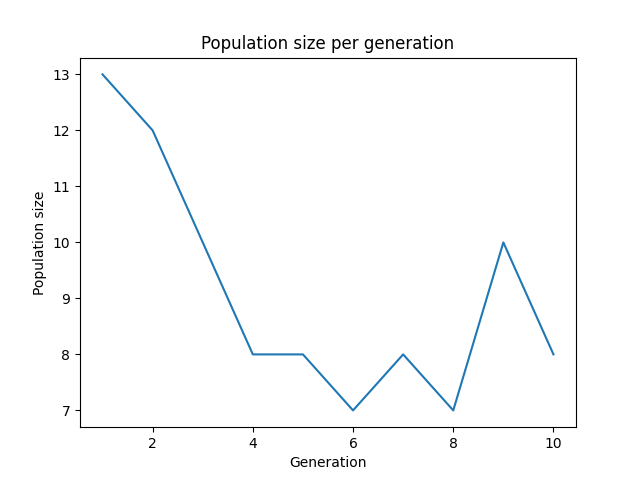
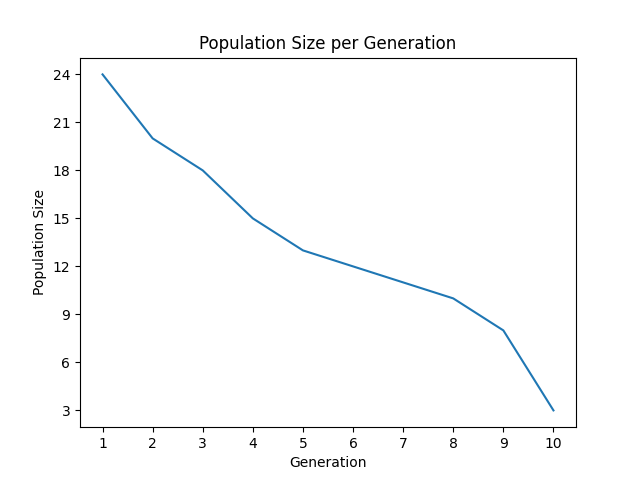
fixed self_adaptive crossover operation, adjusted rlt setting after genetic algorithm operations, implemented fitness variation graph and adjusted files

diff --git a/implementation/genetic_algorithm.py b/implementation/genetic_algorithm.py
@@ -131,7 +131,7 @@ def update_genetic_algorithm_attributes(population, new_population, current_numb
     print("Old best fitness: " + str(old_best_fitness))
     old_best_fitness = current_best_fitness
 
-    return population, current_number_generation, old_best_fitness, generations_without_fitness_improvement
+    return population, current_number_generation, current_best_fitness, old_best_fitness, generations_without_fitness_improvement
 
 
 '''
@@ -148,14 +148,15 @@ current_best_fitness : int
 population : list
     The population of the genetic algorithm
 '''
-def generation_stats(current_number_generation, current_best_fitness, population):
+def generation_stats(current_number_generation, old_best_fitness, current_best_fitness, population):
     print("------------------------ GENERATION STATS ------------------------")
-    print("Generation: " + str(current_number_generation) + " - Best fitness: " + str(current_best_fitness) + " - Average fitness: " + str(round(calculate_average_fitness(population),2)) 
+    print("Generation: " + str(current_number_generation) + " - Old best fitness: " + str(old_best_fitness) + " - Best fitness: " + str(current_best_fitness) + " - Average fitness: " + str(round(calculate_average_fitness(population),2)) 
           + " - Generations without fitness improvement: " + str(generations_without_fitness_improvement) + " - Population size: " + str(len(population)))
     print("------------------------------------------------------------------")
 
     generation_number_values.append(current_number_generation)
     population_size_values.append(len(population))
+    generation_fitness_values.append(current_best_fitness)
 
 # --------------------------------------------------------------
 
@@ -166,7 +167,7 @@ population_fitness = obtain_fitness_values(population)
 initial_best_fitness = obtain_best_fitness(population_fitness)
 current_best_fitness = 0
 old_best_fitness = 0
-current_number_generation = 1
+current_number_generation = 0
 iteration_number_population_control = 1
 generations_without_fitness_improvement = 0
 crossover_rate = float(configurations.crossover_rate.value)
@@ -175,13 +176,14 @@ individual_suspended = None
 mutated_individual_index = None
 generation_number_values = []
 population_size_values = []
+generation_fitness_values = []
 # ----------------------------------------------
 
 # Genetic algorithm population remaining life time (RLT) calculation for individuals
 population = rlt_setting(population, population_fitness, int(configurations.lt_max.value), int(configurations.lt_min.value), None)
 
 # ---- Genetic algorithm execution ----
-while current_number_generation <= int(configurations.max_number_generations.value) and generations_without_fitness_improvement <= int(configurations.fitness_max_stagnation_period.value):
+while current_number_generation < int(configurations.max_number_generations.value) and generations_without_fitness_improvement < int(configurations.fitness_max_stagnation_period.value):
     
     new_population, first_parents_list, second_parents_list, population_fitness = initialize_generation(population)
 
@@ -190,7 +192,7 @@ while current_number_generation <= int(configurations.max_number_generations.val
     print("Generation number: " + str(current_number_generation))
     print("---------------------------------------------------------------")
 
-    while len(new_population) < len(population):
+    while len(new_population) < len(population) and len(population) > 1:
         # ------------------------ Selection Operations -------------------
 
         if configurations.selection_type.value == "adaptive":
@@ -272,18 +274,6 @@ while current_number_generation <= int(configurations.max_number_generations.val
                     if crossover_rate > random.random():
                         offsprings = uniform_crossover(parents_selected, configurations, metadata)
 
-                        print("Offsprings before rlt setting: ")
-                        print("Offspring 1: " + str(offsprings[0].remaining_lifetime))
-                        print("Offspring 2: " + str(offsprings[1].remaining_lifetime))
-                        print("#----------------------------------------------------------------#")
-
-                        for offspring in offsprings:
-                            offspring = rlt_setting(population, population_fitness, int(configurations.lt_max.value), int(configurations.lt_min.value), offspring)
-
-                        print("Offsprings after rlt setting: ")
-                        print("Offspring 1: " + str(offsprings[0].remaining_lifetime))
-                        print("Offspring 2: " + str(offsprings[1].remaining_lifetime))
-                        print("#----------------------------------------------------------------#")
                     else:
                         print("Crossover operation was not performed")
                         offsprings = parents_selected
@@ -291,18 +281,6 @@ while current_number_generation <= int(configurations.max_number_generations.val
                     if float(configurations.crossover_rate.value) > random.random():
                         offsprings = crossover(parents_selected, metadata, current_number_generation, inputs, configurations, configurations.crossover_type.value, configurations.mutation_type.value)
 
-                        print("Offsprings before rlt setting normal: ")
-                        print("Offspring 1: " + str(offsprings[0].remaining_lifetime))
-                        print("Offspring 2: " + str(offsprings[1].remaining_lifetime))
-                        print("#----------------------------------------------------------------#")
-
-                        for offspring in offsprings:
-                            offspring = rlt_setting(population, population_fitness, int(configurations.lt_max.value), int(configurations.lt_min.value), offspring)
-
-                        print("Offsprings after rlt setting normal: ")
-                        print("Offspring 1: " + str(offsprings[0].remaining_lifetime))
-                        print("Offspring 2: " + str(offsprings[1].remaining_lifetime))
-                        print("#----------------------------------------------------------------#")
                     else:
                         print("Crossover operation was not performed")
                         offsprings = parents_selected 
@@ -346,7 +324,7 @@ while current_number_generation <= int(configurations.max_number_generations.val
 
                     # ------------ END ADAPTIVE MUTATION METHOD ------------
 
-                    # ------------ SELF-ADAPTIVE MUTATION METHOD ------------
+                # ------------ SELF-ADAPTIVE MUTATION METHOD ------------
 
                 elif configurations.mutation_type.value == 'self-adaptive':
                     print("Offspring 1 adaptive mutation rate before adaptive method: " + str(offsprings[0].adaptive_mutation_rate))
@@ -365,7 +343,7 @@ while current_number_generation <= int(configurations.max_number_generations.val
                         offsprings[1] = mutation(offsprings[1], metadata, current_number_generation, inputs, configurations, random.choice(['add_test_case', 'delete_test_case', 'change_parameters']))
                         print("Offspring 2 after mutation: " + str(offsprings[1].test_suite))
 
-                    # ------------ END SELF-ADAPTIVE MUTATION METHOD ------------
+                # ------------ END SELF-ADAPTIVE MUTATION METHOD ------------
                         
                 else:
                     if float(configurations.mutation_rate.value) > random.random():
@@ -378,12 +356,35 @@ while current_number_generation <= int(configurations.max_number_generations.val
                         print("Offspring 2 after mutation: " + str(offsprings[1].test_suite))
 
                 # ------------------------ End Mutation Operations ------------------------
+
+
+                # Updating RLT for offsprings after crossover and mutation operations
+                print("Offsprings before rlt setting: ")
+                print("Offspring 1: " + str(offsprings[0].remaining_lifetime))
+                print("Offspring 2: " + str(offsprings[1].remaining_lifetime))
+                print("#----------------------------------------------------------------#")
+
+                for offspring in offsprings:
+                    offspring = rlt_setting(population, population_fitness, int(configurations.lt_max.value), int(configurations.lt_min.value), offspring)
+
+                print("Offsprings after rlt setting: ")
+                print("Offspring 1: " + str(offsprings[0].remaining_lifetime))
+                print("Offspring 2: " + str(offsprings[1].remaining_lifetime))
+                print("#----------------------------------------------------------------#")
+
                             
                 # Adding offsprings to the new population
                 new_population.append(offsprings[0])
                 new_population.append(offsprings[1])
 
+
+    # Reset population and iterations
+    population, current_number_generation, current_best_fitness, old_best_fitness, generations_without_fitness_improvement = update_genetic_algorithm_attributes(population, new_population, 
+                                                                                                                                            current_number_generation, old_best_fitness, 
+                                                                                                                                            generations_without_fitness_improvement, configurations)
+    
     # ------------ POPULATION CONTROL METHOD ------------
+
     if eval(configurations.population_control.value):
         print("Old population size: " + str(len(population)))
         print("New population size: " + str(len(new_population)))
@@ -399,20 +400,20 @@ while current_number_generation <= int(configurations.max_number_generations.val
             iteration_number_population_control = 0
         else:
             iteration_number_population_control += 1
+
     # ------------ END POPULATION CONTROL METHOD ------------
-
-    # Reset population and iterations
-    population, current_number_generation, old_best_fitness, generations_without_fitness_improvement = update_genetic_algorithm_attributes(population, new_population, 
-                                                                                                                                            current_number_generation, old_best_fitness, 
-                                                                                                                                            generations_without_fitness_improvement, configurations)
-    
+            
     # Print generation stats
-    generation_stats(current_number_generation - 1, current_best_fitness, population)
-    print("Population size values: " + str(population_size_values) + " - Generation number values: " + str(generation_number_values))
-
+    generation_stats(current_number_generation, old_best_fitness, current_best_fitness, population)
+    print("Population size values: " + str(population_size_values) + " - Generation number values: " + str(generation_number_values) + " - Generation fitness values: " + str(generation_fitness_values))
+            
 # ---- End genetic algorithm execution ----
     
+
+# ---- Genetic algorithm results ----
 util.population_size_graph(population_size_values, generation_number_values, configurations.generation_stats_path.value)
+util.fitness_values_graph(generation_fitness_values, generation_number_values, configurations.generation_stats_path.value)
+# ---- End genetic algorithm results ----
     
 # Obtain the best individual of the population
 best_solution = obtain_best_individual(population)

diff --git a/implementation/operations/crossover.py b/implementation/operations/crossover.py
@@ -25,7 +25,7 @@ def crossover(parents, metadata, current_iteration_number, inputs, configuration
     elif type == 'adaptive':
         return adaptive_crossover_adjustment(inputs, configurations, 'crossover')
     elif type == 'self-adaptive':
-        return self_adaptive_crossover_adjustment(parents, metadata, inputs, configurations, mutation_type)
+        return self_adaptive_crossover_adjustment(parents, metadata, current_iteration_number, inputs, configurations, mutation_type)
     else:
         raise ValueError('Crossover type is not specified correctly')
     
@@ -192,16 +192,16 @@ Returns:
 individuals : list
     A list containing the two offsprings generated from the parents, the individual that was suspended from the crossover operation and the index of the individual that was mutated
 '''
-def self_adaptive_crossover_adjustment(individuals, metadata, inputs, configurations, type):
+def self_adaptive_crossover_adjustment(individuals, metadata, current_iteration_number, inputs, configurations, type):
     individual_suspended = None
     mutated_individual_index = None
-    individuals[0], first_decision = self_adaptive_crossover_decision(individuals[0], metadata, inputs, configurations, type) 
-    individuals[1], second_decision = self_adaptive_crossover_decision(individuals[1], metadata, inputs, configurations, type)
+    individuals[0], first_decision = self_adaptive_crossover_decision(individuals[0], metadata, current_iteration_number, inputs, configurations, type) 
+    individuals[1], second_decision = self_adaptive_crossover_decision(individuals[1], metadata, current_iteration_number, inputs, configurations, type)
 
     if first_decision and second_decision:
         individuals = uniform_crossover(individuals, configurations, metadata)
         for individual in individuals:
-            individual = mutation(individual, metadata, inputs, configurations, type)
+            individual = mutation(individual, metadata, current_iteration_number, inputs, configurations, random.choice(['add_test_case', 'delete_test_case', 'change_parameters']))
 
     elif not first_decision and second_decision:
         individual_suspended = individuals[1]
@@ -232,6 +232,9 @@ individual : Solution
 metadata : dict
     The metadata of the class context
 
+current_iteration_number : int
+    The current generation number of the algorithm
+
 inputs : dict
     The inputs for the fuzzy system
 
@@ -250,14 +253,15 @@ decision : bool
     A boolean value indicating whether the crossover operator will be performed or not which means the individual will be mutated if the crossover operator is not performed in
     the current iteration of the algorithm
 '''
-def self_adaptive_crossover_decision(individual, metadata, inputs, configurations, type):
+def self_adaptive_crossover_decision(individual, metadata, current_iteration_number, inputs, configurations, type):
     random_number = random.uniform(0, 1)
     print("Random number: " + str(random_number))
     print("Crossover rate: " + str(individual.adaptive_crossover_rate))
 
     if random_number < individual.adaptive_crossover_rate:
         return individual, True
+    
     else:
-        individual = mutation(individual, metadata, inputs, configurations, type)
+        individual = mutation(individual, metadata, current_iteration_number, inputs, configurations, random.choice(['add_test_case', 'delete_test_case', 'change_parameters']))
         return individual, False
     

diff --git a/implementation/utilities.py b/implementation/utilities.py
@@ -134,7 +134,45 @@ def population_size_graph(population_size_values, generation_number_values, path
 
     plt.plot(generation_number_values, population_size_values)
     plt.xlabel('Generation')
-    plt.ylabel('Population size')
-    plt.title('Population size per generation')
+    plt.ylabel('Population Size')
+    plt.title('Population Size per Generation')
+
+    plt.gca().xaxis.set_major_locator(ticker.MaxNLocator(integer=True))
+    plt.gca().yaxis.set_major_locator(ticker.MaxNLocator(integer=True))
 
     plt.savefig(path + '/population_size_graph.png')
+
+
+'''
+Function to plot the best fitness value variation per generation
+
+Parameters:
+----------
+generation_fitness_values: list
+    The best fitness value per generation
+
+generation_number_values: list
+    The generation number values
+
+path: str
+    The path to save the graph
+'''
+def fitness_values_graph(generation_fitness_values, generation_number_values, path):
+    if plt.get_fignums():
+            plt.close('all')
+    
+    x = np.linspace(min(generation_number_values), max(generation_number_values), 500)
+    k = min(3, len(generation_number_values) - 1)
+    x_y_spline = make_interp_spline(generation_number_values, generation_fitness_values, k=k)
+    y = x_y_spline(x)
+
+    plt.plot(generation_number_values, generation_fitness_values)
+    plt.xlabel('Generation')
+    plt.ylabel('Best Fitness Value')
+    plt.title('Best Fitness Value per Generation')
+
+    plt.gca().xaxis.set_major_locator(ticker.MaxNLocator(integer=True))
+    plt.gca().yaxis.set_major_locator(ticker.MaxNLocator(integer=True))
+
+    plt.savefig(path + '/fitness_values_graph.png')
+    

diff --git a/implementation/operations/selection.py b/implementation/operations/selection.py
@@ -162,14 +162,15 @@ parents_selected : list
 '''
 def tournament_selection(population, tournament_size):
     parents_selected = []
-    while len(parents_selected) != 2:
-        selected_individuals = random.choices(population, k=tournament_size)
-        individuals_set = set(selected_individuals)
-        if len(selected_individuals) == len(individuals_set):
-            parents_selected.append(max(selected_individuals, key=lambda x:x.fitness))
-        
-        if len(parents_selected) == 2 and len(parents_selected) != len(set(parents_selected)):
-            parents_selected.pop(1)
+    if tournament_size <= len(population):
+        while len(parents_selected) != 2:
+            selected_individuals = random.choices(population, k=tournament_size)
+            individuals_set = set(selected_individuals)
+            if len(selected_individuals) == len(individuals_set):
+                parents_selected.append(max(selected_individuals, key=lambda x:x.fitness))
+            
+            if len(parents_selected) == 2 and len(parents_selected) != len(set(parents_selected)):
+                parents_selected.pop(1)
     return parents_selected
         
 '''

diff --git a/implementation/results/intermediate_test_suite/test_cases.py b/implementation/results/intermediate_test_suite/test_cases.py
@@ -1,11 +1,20 @@
 from cut import *
 
 def test_case_0():
-	cut = calorie_intake_calc(100.19,163.2,71,'M',0.16,'E')
+	cut = calorie_intake_calc(101.67,162.38,73,'F',0.07,'V')
 	result_determine_calorie_intake = cut.determine_calorie_intake()
-	result_mifflin_stjeor_equation = cut.mifflin_stjeor_equation()
 
 def test_case_1():
-	cut = calorie_intake_calc(173.94,196.52,13,'F',0.3,'N')
+	cut = calorie_intake_calc(50.25,187.86,50,'M',0.27,'E')
 	result_mifflin_stjeor_equation = cut.mifflin_stjeor_equation()
+	result_mifflin_stjeor_equation = cut.mifflin_stjeor_equation()
+
+def test_case_2():
+	cut = calorie_intake_calc(119.41,170.09,48,'F',0.02,'L')
+	result_mifflin_stjeor_equation = cut.mifflin_stjeor_equation()
+
+def test_case_3():
+	cut = calorie_intake_calc(171.89,144.9,32,'M',0.13,'S')
+	result_katch_mcardle_equation = cut.katch_mcardle_equation()
+	result_tdee_calculation = cut.tdee_calculation()
 
